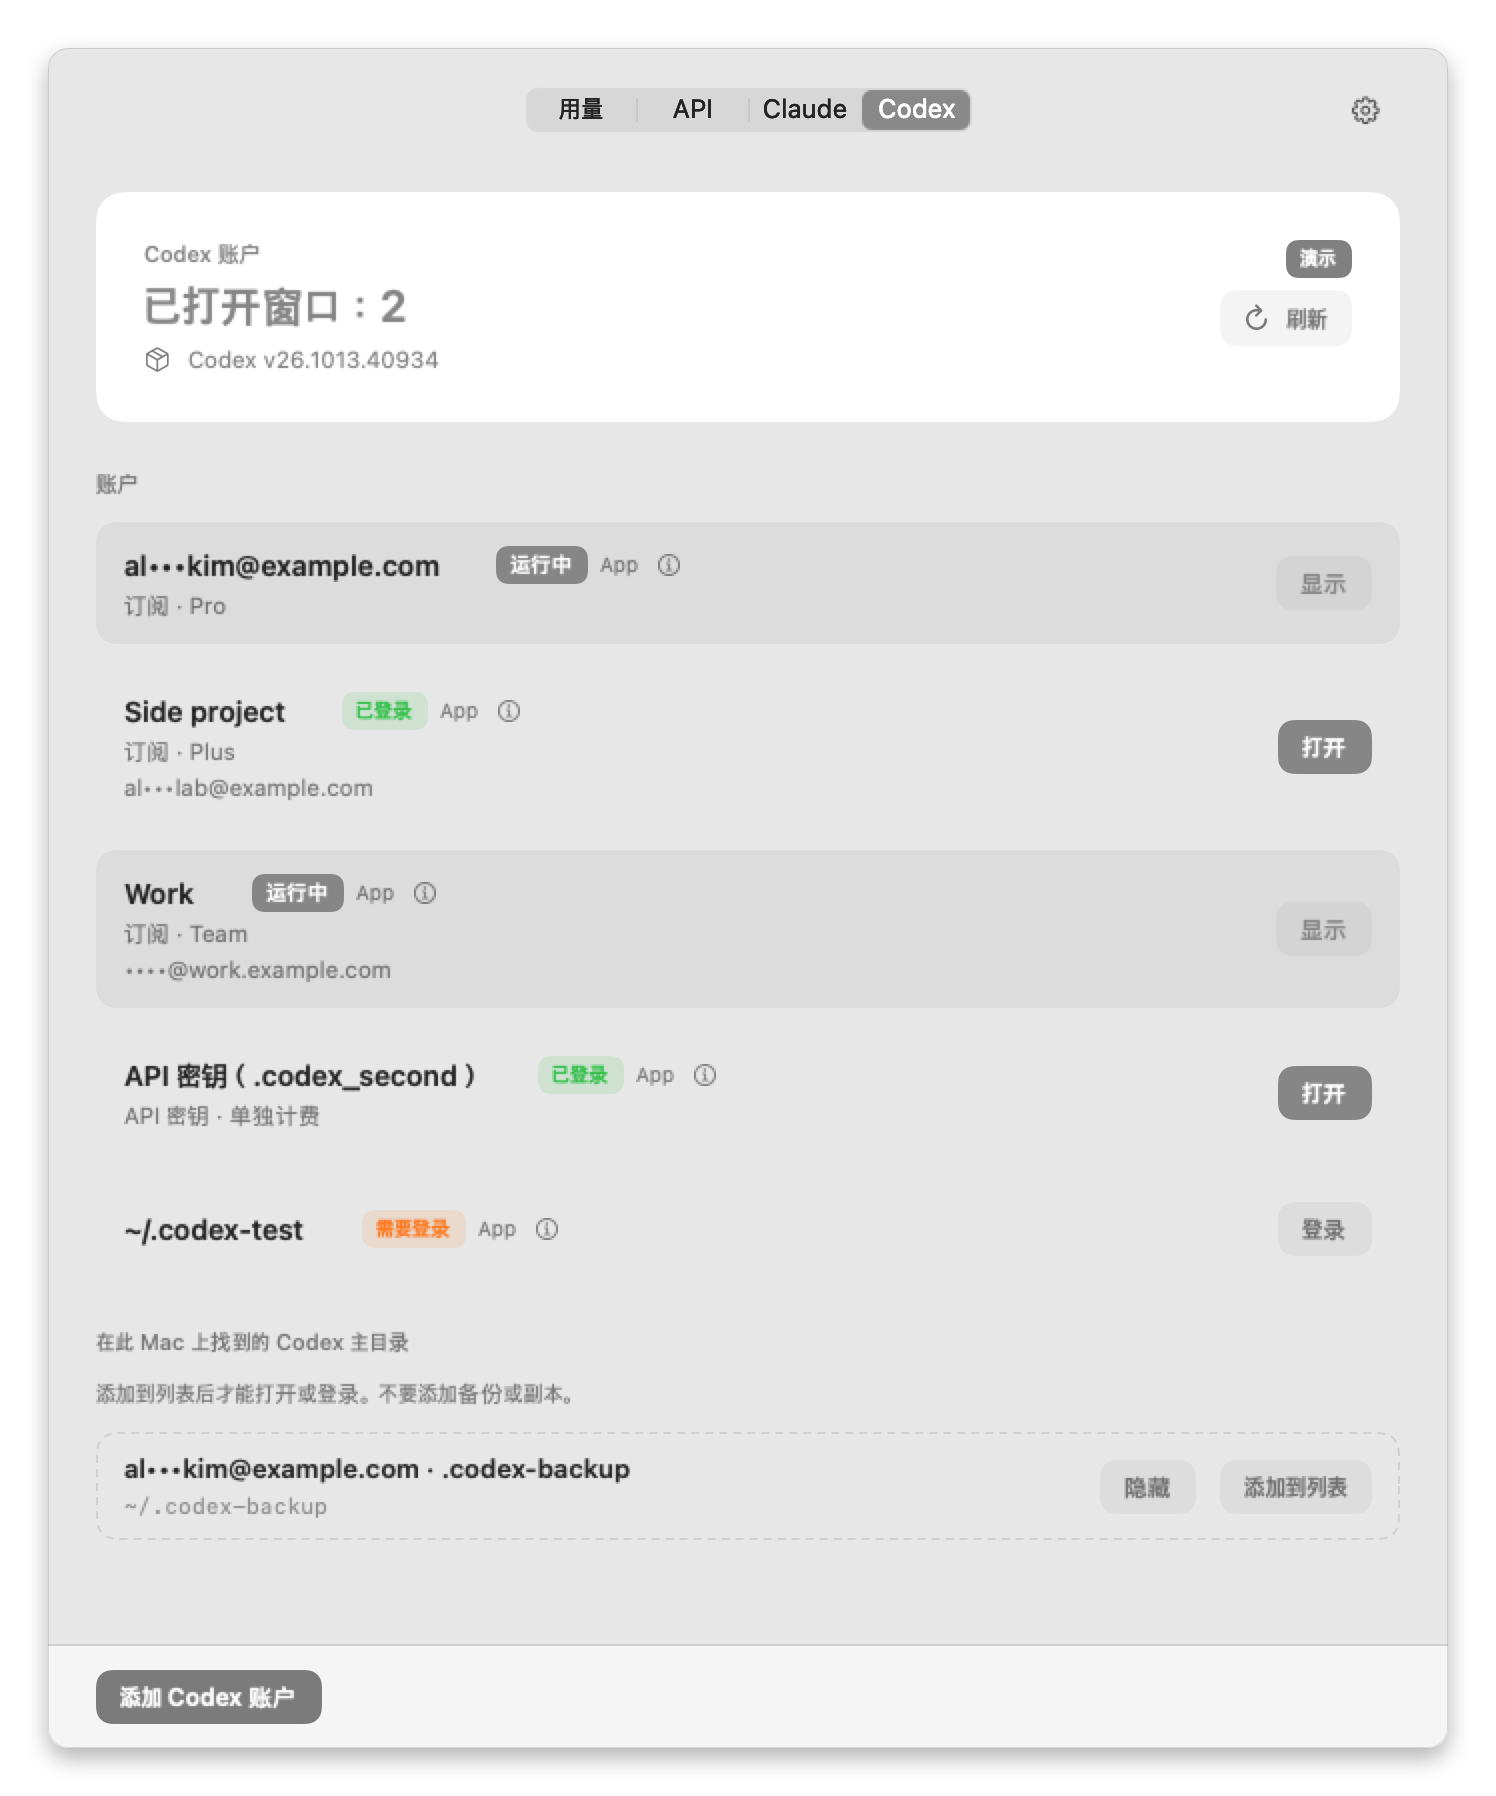
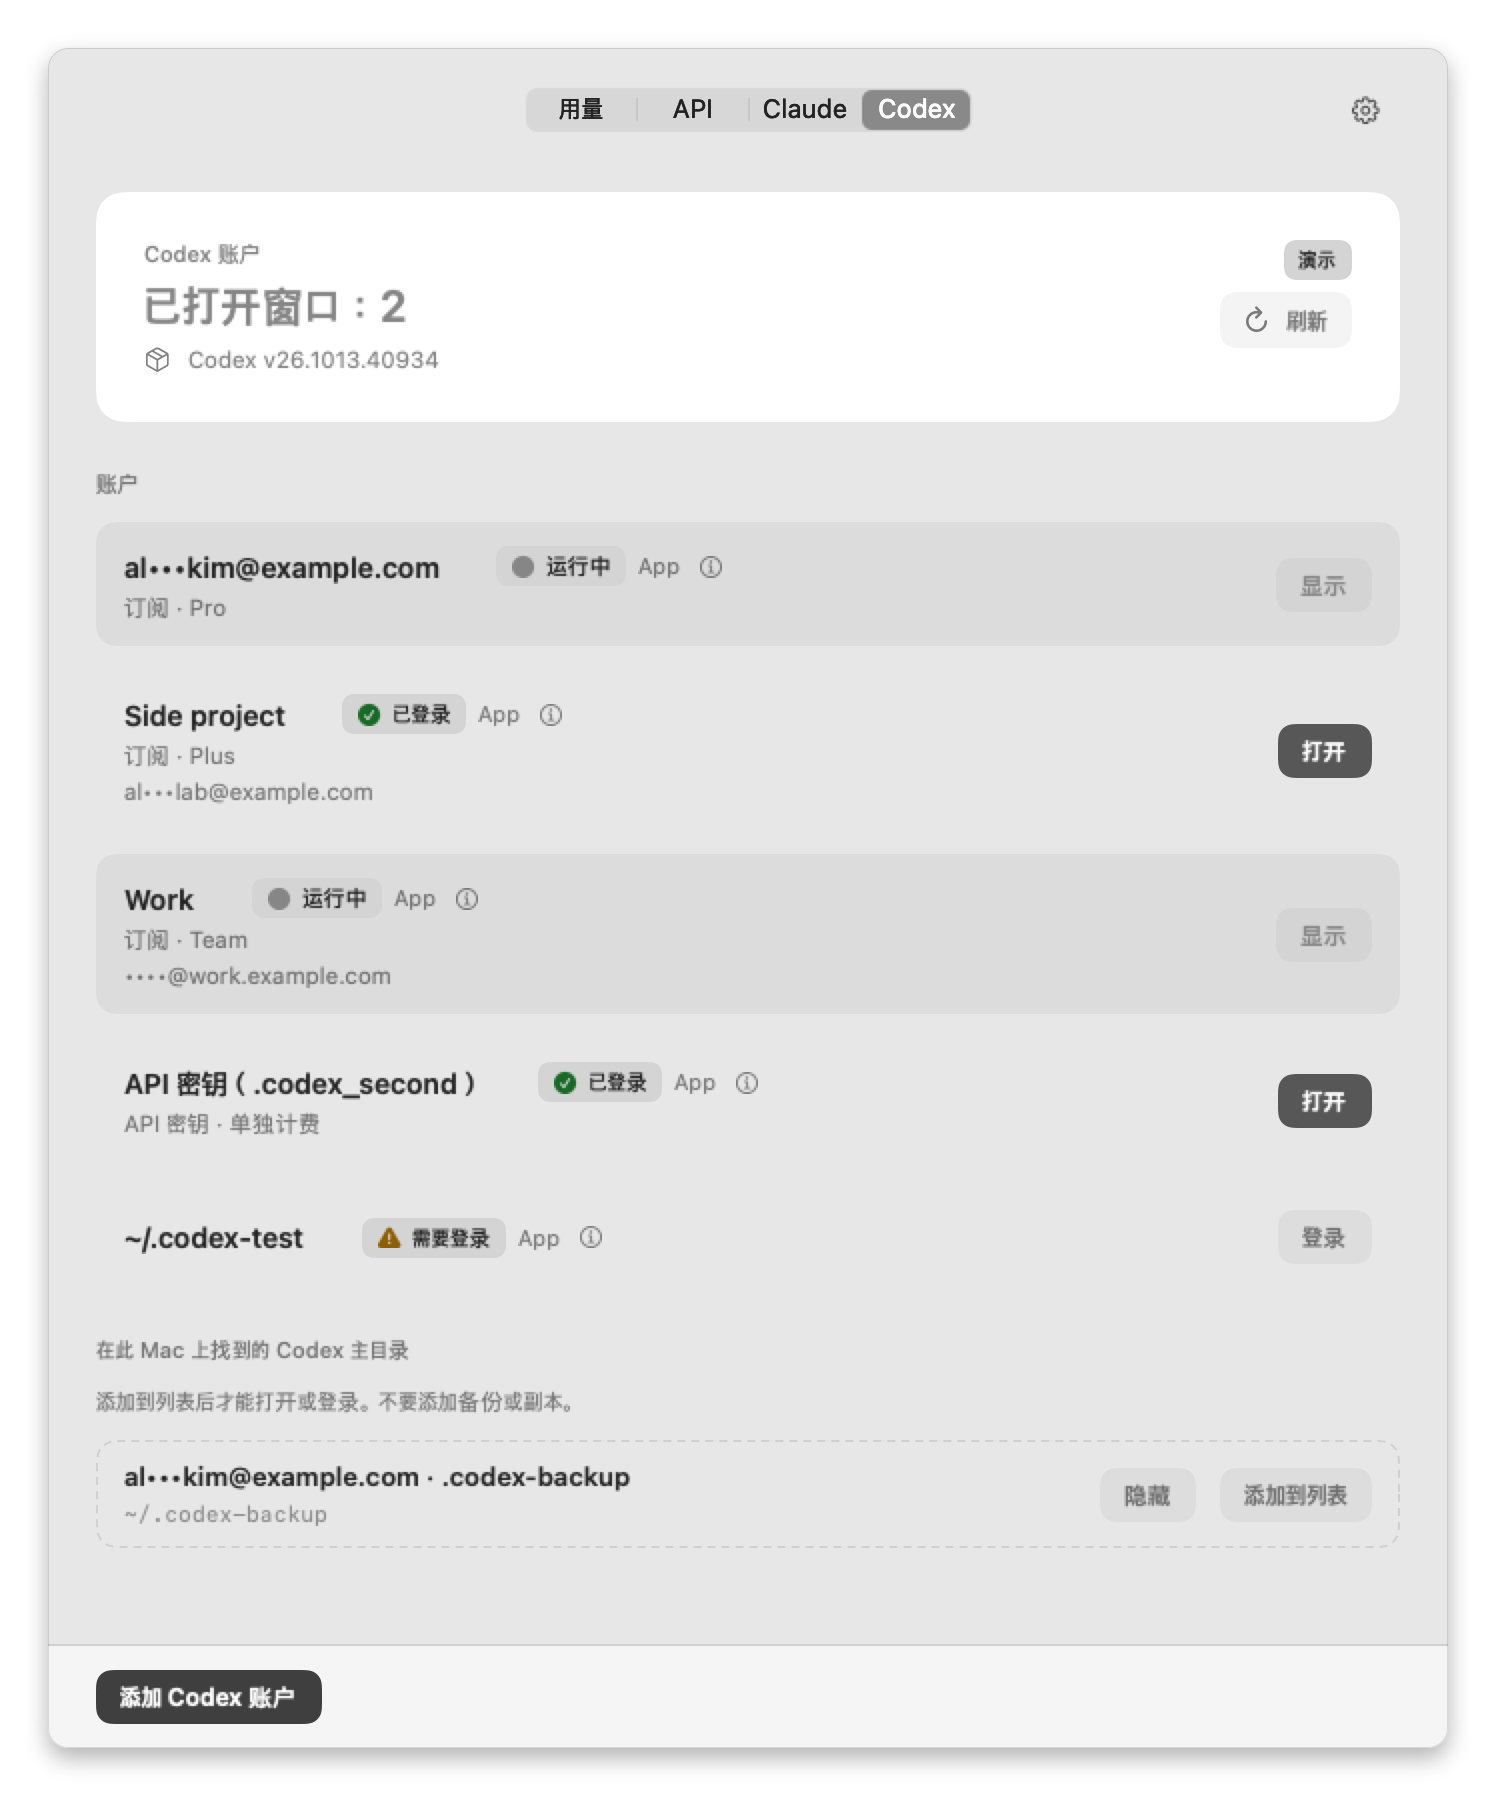
chore: release 2.5.0 (#71)
Bump the version to 2.5.0 (build 19), add the 2.5.0 notes and refresh the README screenshots from the demo fixtures.

diff --git a/CHANGELOG.md b/CHANGELOG.md
@@ -1,5 +1,111 @@
 # Changelog
 
+## 2.5.0 — a new icon, glass in the main window, and a full audit's fixes
+
+**A new app icon.** The Dock and Finder icon now shows three account rows on a
+warm paper tile, each with a remaining-usage meter; the current account is in
+system blue. It no longer uses a vendor's color.
+
+**Liquid Glass, used sparingly.** On macOS 26 and later, the action bar at the
+bottom of the Claude and Codex tabs floats over the list as glass, and the main
+window's secondary buttons outside that bar are glass capsules. Primary buttons
+take the same capsule shape but stay opaque, as do cards, rows and the menu. On
+macOS 15, or with **Reduce transparency** on, none of this applies and the
+window stays flat.
+
+**Buttons and status chips that stay readable.** A primary button keeps your
+accent color's hue and shifts only its brightness, so its label has at least
+4.5:1 contrast at rest and on hover — in every system accent color, graphite
+included. Status chips now sit on a neutral background; a marker before the text
+carries the color and the shape.
+
+**Antigravity 1.5.9.** Antigravity 1.5.9 changed its usage screen, and Gemini
+model limits stopped appearing. UsageSwitch reads the new screen ("Refreshes
+in …") and confirms `/usage` in the new command menu only when that is the
+selected row. A model group with a dot in its name keeps its own limits instead
+of having them listed under the group above, a reading above 100% counts as a
+failed read instead of "0% used", and an Antigravity reading older than nine
+minutes is read again right away.
+
+**Cursor asks for consent again.** When Cursor's stored sign-in has expired,
+UsageSwitch runs `cursor-agent status` once so cursor-agent can renew its own
+sign-in — something the earlier consent text didn't mention. The text now says
+so, and the earlier consent no longer counts: **after updating, the Cursor
+connection is off until you turn it on again** in **⚙ › Usage Connections**. A
+sign-in that is still expired after that isn't retried on every read.
+
+**API spend and budgets.**
+- Anthropic billing admin keys are sent in the `x-api-key` header, as Anthropic's
+  documentation requires.
+- The "Actual spend, last 7 days" figure no longer counts only the current
+  month's days during the first six days of a month.
+- A read that fails temporarily is tried again on the next refresh instead of 30
+  minutes later, and removing a billing key clears its figures at once.
+- The time of the read follows the app's language, and shows the date when the
+  reading is not from today.
+- For Anthropic, a monthly budget that resets on day 1 is compared with the
+  month's actual spend; for a balance, or a quota that resets on another day, a
+  note says why no amount left is worked out. Google and xAI have no spend
+  figure to count a budget against, so the budget field is hidden there; a saved
+  value is kept.
+- When a provider's API use started less than seven days ago, the estimated
+  daily rate divides by the days since it started, not by seven, so a budget
+  isn't shown lasting longer than it will.
+- Deleting an API key asks first, naming the provider, the nickname and the
+  key's last four characters. VoiceOver reads which key the **Reveal**, **Hide**
+  and **Delete** buttons act on.
+- The API tab's note is accurate: a regular key is never sent anywhere; a
+  billing admin key goes only to its own vendor's billing endpoint.
+- A budget amount far out of range no longer crashes the app.
+
+**Usage, alerts and the Guide.**
+- A saved Claude account linked to a CLI profile no longer repeats its usage
+  warning each time the app starts, and it appears under its own name — not
+  "Claude profile" — in **Menu Bar Usage** and in notifications. Usage
+  notifications name the provider before the account ("Codex · Work").
+- When the limit chosen for the menu bar can't be read, the bar shows no limit
+  instead of another one — only the current Claude account's name, if that
+  setting is on.
+- The Guide no longer suggests an account it had just set aside as running out
+  early: that verdict used to lapse for about ten minutes of every hour while
+  the account kept draining. Claude's "Sonnet only" limit is applied to Sonnet.
+- In the last minute before a reset, a limit's tooltip and VoiceOver reading say
+  "Resets within a minute" instead of "Resets in now".
+- Reopening a minimized or hidden window no longer leaves status checks running
+  every six seconds, and closing one window while the other is minimized no
+  longer removes the Dock icon.
+- Copilot asks `gh` for the github.com token by name, so a GitHub Enterprise
+  Server token can't be sent to github.com.
+- A signed-out Codex account's lock points to the Codex tab, and the Codex plan
+  reads "Pro Lite", not "Prolite".
+- Wording was tightened in the Korean, Japanese, Spanish and Chinese
+  translations.
+
+**Switching and updates.** Copies of a Claude sign-in that UsageSwitch sets
+aside are kept without Claude's token caches on two more paths: when an
+interrupted switch is finished later, and when a damaged switch record is set
+aside for manual recovery. Installing an update always asks first: Sparkle's
+option to install updates automatically is gone. The update feed is now signed
+as well, and the release script verifies it before publishing; this version
+does not yet require that signature.
+
+**`--cli usage`** adds `ageSeconds`, the age of the saved reading in seconds, to
+its output, and the README examples print only readings whose `state` is `"ok"`.
+
+**Behind the scenes:**
+- `scripts/vendor-drift.sh` also checks two more strings read from Antigravity's
+  screen, limits the Guide can't map to a model, and new fields in Claude's
+  usage report.
+- CI lints `Info.plist`, no longer lets a push cancel the weekly
+  thread-sanitizer run, and builds and tests with the release toolchain in a
+  second job that isn't required; Dependabot watches the Swift packages.
+  `scripts/test.sh` works with newer Swift toolchains, which build one test
+  bundle per test target.
+- Closed detail windows are released, and a usage read can no longer start
+  another vendor command while the app is quitting.
+- The translated READMEs describe Copilot, real spend and billing keys, and
+  PRIVACY.md lists reads it had missed, including Cursor's `cursor-agent status`.
+
 ## 2.4.0 — a Guide that shows its reasoning, bars in vendor colors, Codex limit resets
 
 **The Guide says why.** Under the suggestion, a folded **Why this suggestion**
